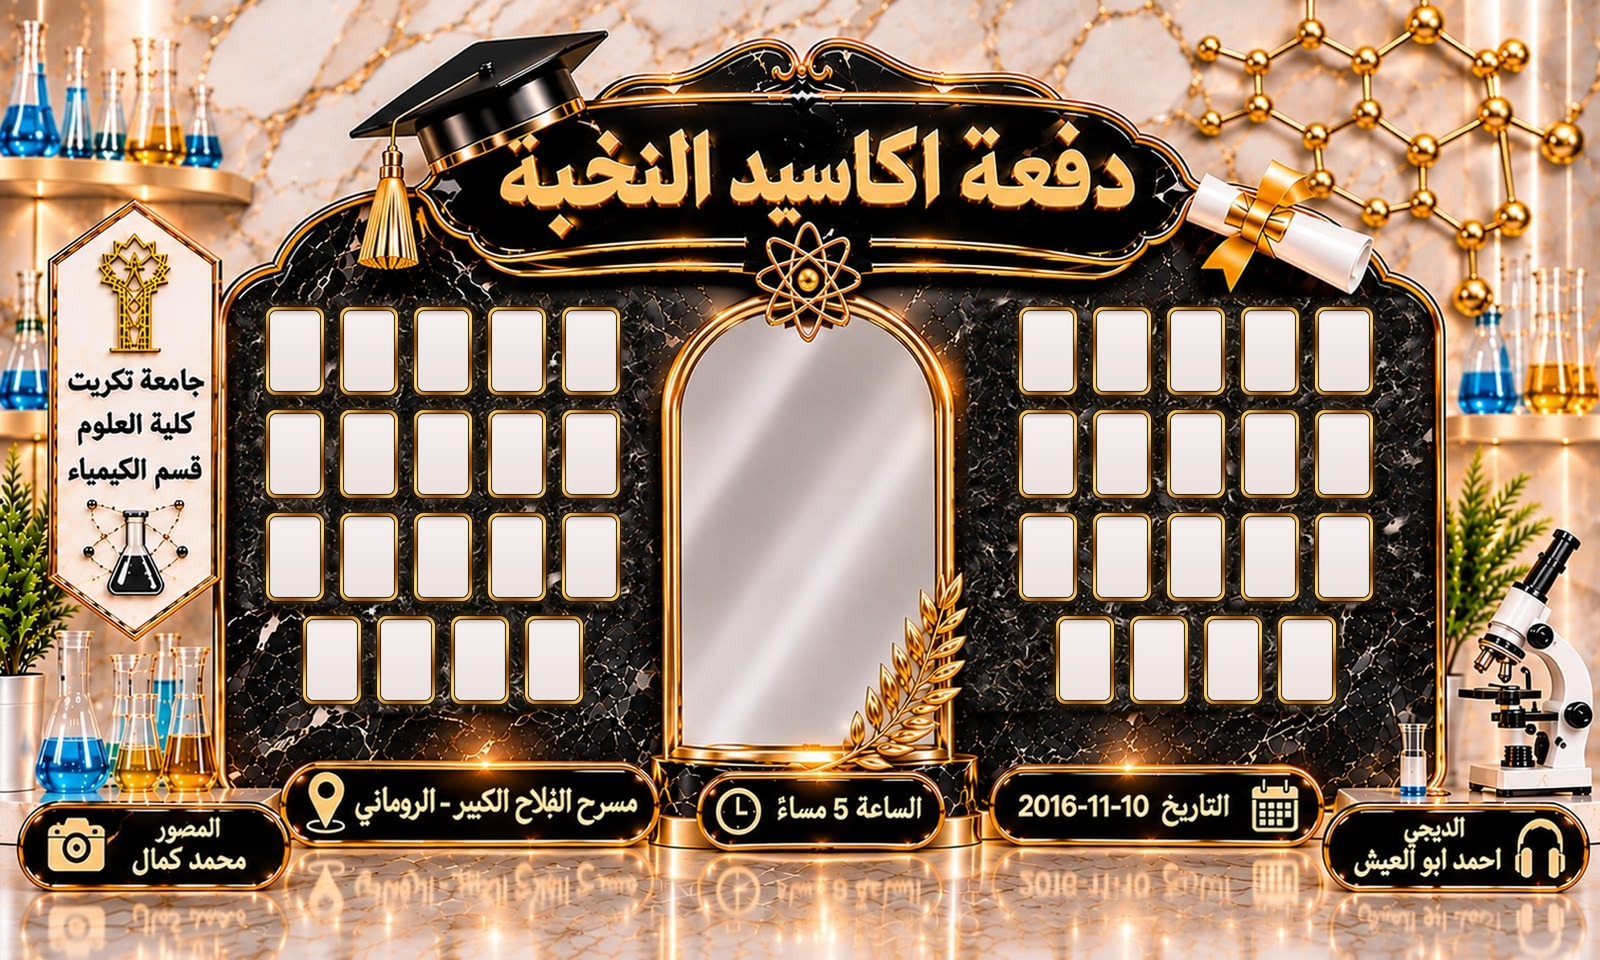
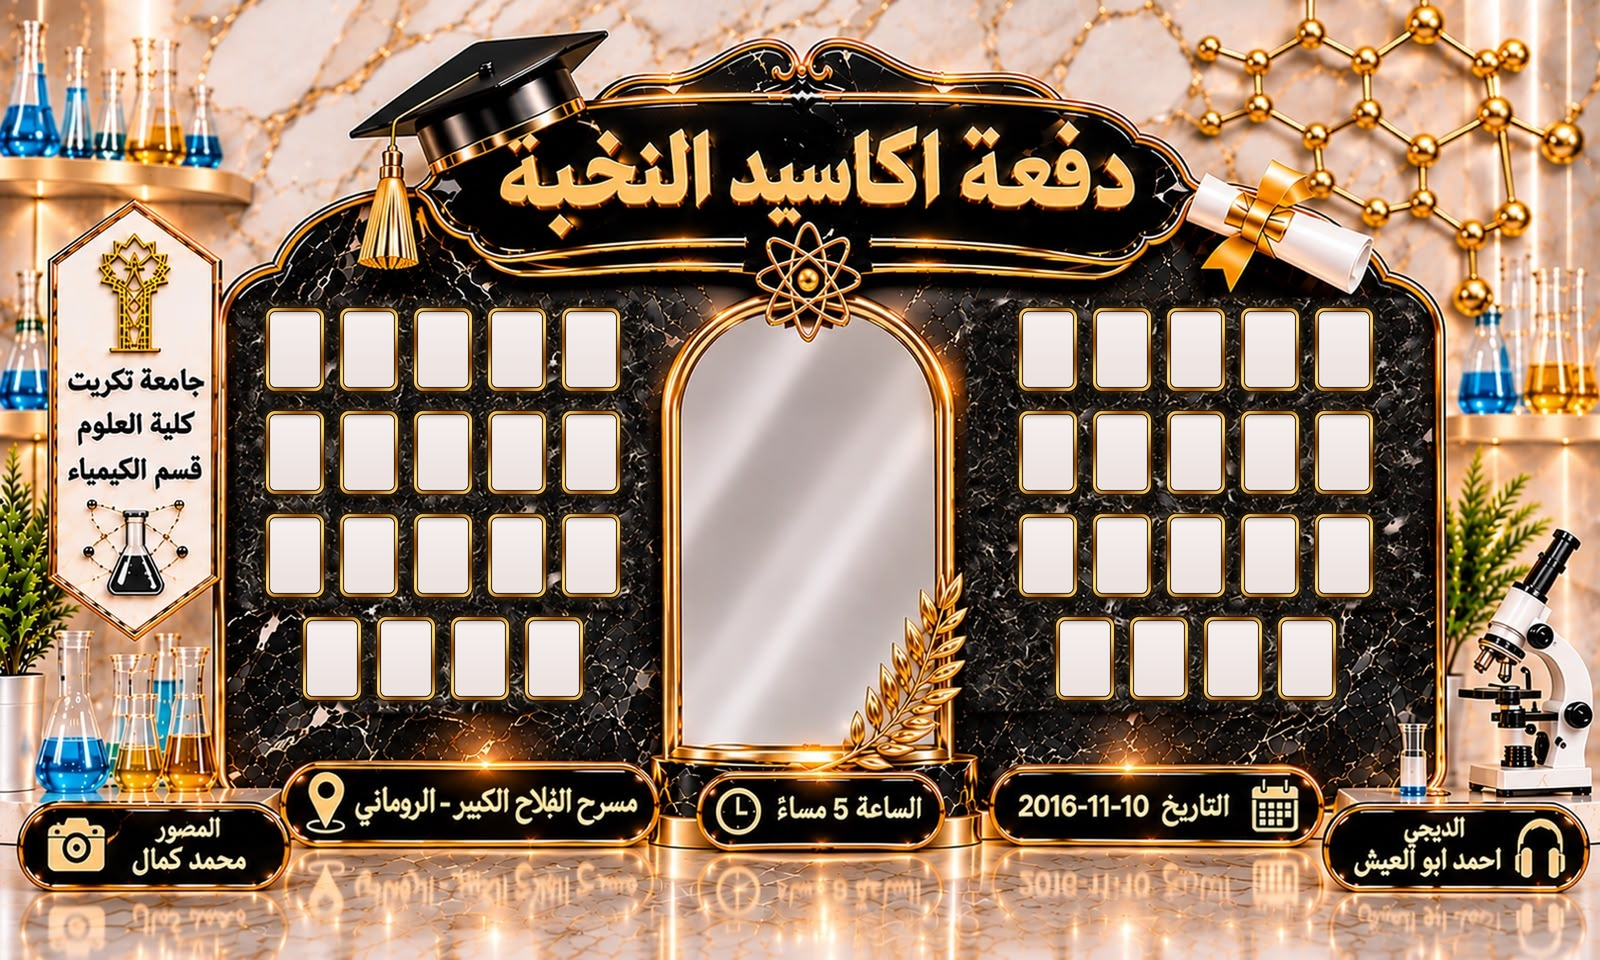
Poster: make each photo area exactly 10x15 cm (print size 320x192 cm)
Claude-Session: https://claude.ai/code/session_01Mhr2Erb5NZ6SqBq6w4QK9n

diff --git a/poster/make_poster.py b/poster/make_poster.py
@@ -2,7 +2,7 @@ import sys
 from PIL import Image, ImageDraw, ImageFilter, ImageOps
 import numpy as np
 SRC=sys.argv[1]; OUT=sys.argv[2]
-S=3
+S=4
 orig=Image.open(SRC).convert('RGB')
 W,H=orig.size
 big=orig.resize((W*S,H*S),Image.LANCZOS)
@@ -38,51 +38,46 @@ for i,(y0,y1) in enumerate(Rr):
 mask=mask.resize((W*S,H*S),Image.LANCZOS).filter(ImageFilter.GaussianBlur(5))
 big.paste(T,(0,0),mask)
 
-# --- photo frames: 10cm x 15cm (2:3 portrait) ---
-FW,FH=60,90          # px in original scale  -> 6 px = 1 cm
-GX,GY=14,13
+# --- photo frames: white photo area exactly 10cm x 15cm ---
+# scale: 5 px (original) = 1 cm  ->  poster prints at 320 x 192 cm
+IW,IH=50,75          # white photo area = 10 x 15 cm
+B=5                  # gold border thickness (1 cm)
+FW,FH=IW+2*B,IH+2*B  # outer frame 12 x 17 cm
+GX,GY=14,18
 def gold(w,h):
-    g=np.zeros((h,w,3))
     yy,xx=np.mgrid[0:h,0:w]
     t=(xx/w*0.4+yy/h*0.6)
     wave=0.5+0.5*np.cos(t*np.pi*4)
     dark=np.array([150,80,10]); light=np.array([255,214,110])
-    g=dark+(light-dark)*wave[...,None]
-    return Image.fromarray(g.astype('uint8'))
+    return Image.fromarray((dark+(light-dark)*wave[...,None]).astype('uint8'))
 
 def frame(cx,cy):
     w,h=FW*S,FH*S
-    x0=int(cx*S-w/2); y0=int(cy*S-h/2)
-    pad=30
-    # shadow / glow
+    x0=round(cx*S-w/2); y0=round(cy*S-h/2)
+    k=S/3; pad=int(30*k); R=int(30*k)
     sh=Image.new('L',(w+2*pad,h+2*pad),0)
-    ImageDraw.Draw(sh).rounded_rectangle((pad,pad+6,pad+w,pad+h+6),radius=30,fill=200)
-    sh=sh.filter(ImageFilter.GaussianBlur(10))
-    big.paste((0,0,0),(x0-pad,y0-pad),sh)
+    ImageDraw.Draw(sh).rounded_rectangle((pad,pad+int(6*k),pad+w,pad+h+int(6*k)),radius=R,fill=200)
+    big.paste((0,0,0),(x0-pad,y0-pad),sh.filter(ImageFilter.GaussianBlur(10*k)))
     glow=Image.new('L',(w+2*pad,h+2*pad),0)
-    ImageDraw.Draw(glow).rounded_rectangle((pad,pad,pad+w,pad+h),radius=30,fill=90)
-    glow=glow.filter(ImageFilter.GaussianBlur(8))
-    big.paste((230,150,40),(x0-pad,y0-pad),glow)
-    # dark outer edge
-    m=Image.new('L',(w,h),0); ImageDraw.Draw(m).rounded_rectangle((0,0,w-1,h-1),radius=30,fill=255)
+    ImageDraw.Draw(glow).rounded_rectangle((pad,pad,pad+w,pad+h),radius=R,fill=90)
+    big.paste((230,150,40),(x0-pad,y0-pad),glow.filter(ImageFilter.GaussianBlur(8*k)))
+    m=Image.new('L',(w,h),0); ImageDraw.Draw(m).rounded_rectangle((0,0,w-1,h-1),radius=R,fill=255)
     big.paste((25,15,5),(x0,y0),m)
-    # gold ring
-    m=Image.new('L',(w,h),0); ImageDraw.Draw(m).rounded_rectangle((3,3,w-4,h-4),radius=28,fill=255)
+    e=int(3*k)
+    m=Image.new('L',(w,h),0); ImageDraw.Draw(m).rounded_rectangle((e,e,w-1-e,h-1-e),radius=R-e,fill=255)
     big.paste(gold(w,h),(x0,y0),m)
-    # thin dark inner line
-    m=Image.new('L',(w,h),0); ImageDraw.Draw(m).rounded_rectangle((12,12,w-13,h-13),radius=22,fill=255)
+    b=B*S; e=int(3*k)  # thin dark line just outside the photo area
+    m=Image.new('L',(w,h),0); ImageDraw.Draw(m).rounded_rectangle((b-e,b-e,w-1-b+e,h-1-b+e),radius=int(20*k),fill=255)
     big.paste((30,20,15),(x0,y0),m)
-    # white photo area with soft gradient
-    iw,ih=w-30,h-30
+    iw,ih=IW*S,IH*S
     yy=np.linspace(0,1,ih)[:,None]*np.ones((1,iw))
     top=np.array([246,240,238]); bot=np.array([236,226,224])
     fill=(top+(bot-top)*yy[...,None]).astype('uint8')
-    m=Image.new('L',(iw,ih),0); ImageDraw.Draw(m).rounded_rectangle((0,0,iw-1,ih-1),radius=18,fill=255)
-    big.paste(Image.fromarray(fill),(x0+15,y0+15),m)
-    # inner top shadow for depth
-    s=Image.new('L',(iw,ih),0); ImageDraw.Draw(s).rounded_rectangle((-4,-4,iw+3,8),radius=18,fill=70)
-    s=s.filter(ImageFilter.GaussianBlur(4)); s=Image.fromarray(np.minimum(np.array(s),np.array(m)))
-    big.paste((120,90,80),(x0+15,y0+15),s)
+    m=Image.new('L',(iw,ih),0); ImageDraw.Draw(m).rounded_rectangle((0,0,iw-1,ih-1),radius=int(16*k),fill=255)
+    big.paste(Image.fromarray(fill),(x0+b,y0+b),m)
+    sm=Image.new('L',(iw,ih),0); ImageDraw.Draw(sm).rounded_rectangle((-4,-4,iw+3,int(8*k)),radius=int(16*k),fill=70)
+    sm=Image.fromarray(np.minimum(np.array(sm.filter(ImageFilter.GaussianBlur(4*k))),np.array(m)))
+    big.paste((120,90,80),(x0+b,y0+b),sm)
 
 def block(cx,top,rows):
     n=0
@@ -92,8 +87,8 @@ def block(cx,top,rows):
         for c in range(cols):
             frame(cx-tw/2+FW/2+c*(FW+GX),y); n+=1
     return n
-top=306
+top=307
 n=block(443,top,[5,5,5,4])+block(1196,top,[5,5,5,4])
 print('frames:',n)
-big.save(OUT,quality=95,dpi=(45.72,45.72))
+big.save(OUT,quality=95,dpi=(50.8,50.8))
 big.resize((W,H),Image.LANCZOS).save(OUT.replace('.jpg','_preview.jpg'),quality=92)
